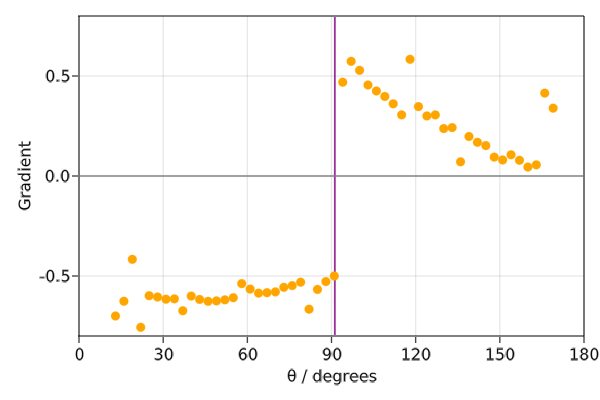
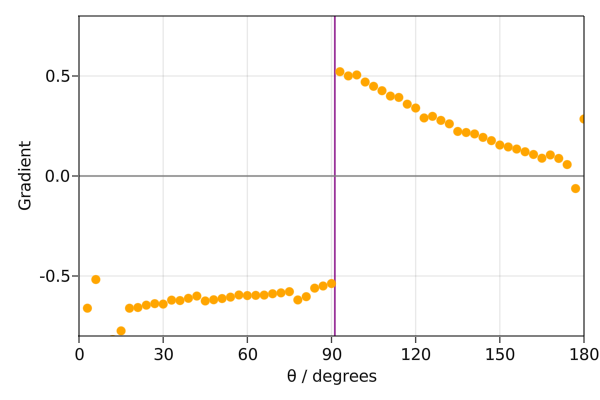
update differentiable docs examples

diff --git a/docs/src/differentiable.md b/docs/src/differentiable.md
@@ -53,13 +53,17 @@ n_atoms = 50
 n_steps = 500
 atom_mass = 10.0
 box_size = SVector(3.0, 3.0, 3.0)
-temp = 0.01
+temp = 1.0
 neighbor_finder = DistanceVecNeighborFinder(
     nb_matrix=trues(n_atoms, n_atoms),
     n_steps=10,
     dist_cutoff=1.5,
 )
-general_inters = (LennardJones(nl_only=true),)
+lj = LennardJones(nl_only=true, force_units=NoUnits, energy_units=NoUnits)
+# Currently this is required too though here it does not affect the simulation
+crf = CoulombReactionField(dist_cutoff=1.5, nl_only=true, coulomb_const=0.0,
+                           force_units=NoUnits, energy_units=NoUnits)
+general_inters = (lj, crf)
 coords = place_atoms(n_atoms, box_size, 0.7)
 velocities = [velocity(atom_mass, temp) for i in 1:n_atoms]
 simulator = VelocityVerlet(
@@ -105,7 +109,7 @@ We can use this gradient in a training loop to optimise `σ`, starting from an a
 ```julia
 function train()
     σlearn = 0.60 / scale_σ_to_dist
-    n_epochs = 20
+    n_epochs = 15
 
     for epoch_n in 1:n_epochs
         printfmt("Epoch {:>2}  |  ", epoch_n)
@@ -120,28 +124,23 @@ end
 train()
 ```
 ```
-Epoch  1  |  σ  0.535  |  Mean min sep expected  0.600  |  Mean min sep end  0.589  |  Loss  0.089  |  Grad  0.912
-Epoch  2  |  σ  0.525  |  Mean min sep expected  0.590  |  Mean min sep end  0.579  |  Loss  0.079  |  Grad  0.644
-Epoch  3  |  σ  0.519  |  Mean min sep expected  0.583  |  Mean min sep end  0.571  |  Loss  0.071  |  Grad  1.081
-Epoch  4  |  σ  0.508  |  Mean min sep expected  0.570  |  Mean min sep end  0.560  |  Loss  0.060  |  Grad  1.543
-Epoch  5  |  σ  0.493  |  Mean min sep expected  0.553  |  Mean min sep end  0.546  |  Loss  0.046  |  Grad  0.939
-Epoch  6  |  σ  0.483  |  Mean min sep expected  0.543  |  Mean min sep end  0.533  |  Loss  0.033  |  Grad  1.350
-Epoch  7  |  σ  0.470  |  Mean min sep expected  0.527  |  Mean min sep end  0.519  |  Loss  0.019  |  Grad  0.818
-Epoch  8  |  σ  0.462  |  Mean min sep expected  0.518  |  Mean min sep end  0.510  |  Loss  0.010  |  Grad  1.744
-Epoch  9  |  σ  0.444  |  Mean min sep expected  0.499  |  Mean min sep end  0.492  |  Loss  0.008  |  Grad -0.967
-Epoch 10  |  σ  0.454  |  Mean min sep expected  0.509  |  Mean min sep end  0.502  |  Loss  0.002  |  Grad  0.756
-Epoch 11  |  σ  0.446  |  Mean min sep expected  0.501  |  Mean min sep end  0.494  |  Loss  0.006  |  Grad -1.228
-Epoch 12  |  σ  0.459  |  Mean min sep expected  0.515  |  Mean min sep end  0.506  |  Loss  0.006  |  Grad  1.299
-Epoch 13  |  σ  0.446  |  Mean min sep expected  0.500  |  Mean min sep end  0.493  |  Loss  0.007  |  Grad -0.884
-Epoch 14  |  σ  0.454  |  Mean min sep expected  0.510  |  Mean min sep end  0.502  |  Loss  0.002  |  Grad  1.014
-Epoch 15  |  σ  0.444  |  Mean min sep expected  0.499  |  Mean min sep end  0.492  |  Loss  0.008  |  Grad -1.010
-Epoch 16  |  σ  0.454  |  Mean min sep expected  0.510  |  Mean min sep end  0.502  |  Loss  0.002  |  Grad  0.986
-Epoch 17  |  σ  0.445  |  Mean min sep expected  0.499  |  Mean min sep end  0.492  |  Loss  0.008  |  Grad -1.138
-Epoch 18  |  σ  0.456  |  Mean min sep expected  0.512  |  Mean min sep end  0.504  |  Loss  0.004  |  Grad  0.709
-Epoch 19  |  σ  0.449  |  Mean min sep expected  0.504  |  Mean min sep end  0.496  |  Loss  0.004  |  Grad -0.803
-Epoch 20  |  σ  0.457  |  Mean min sep expected  0.513  |  Mean min sep end  0.505  |  Loss  0.005  |  Grad  0.327
+Epoch  1  |  σ  0.535  |  Mean min sep expected  0.600  |  Mean min sep end  0.587  |  Loss  0.087  |  Grad  0.793
+Epoch  2  |  σ  0.527  |  Mean min sep expected  0.591  |  Mean min sep end  0.581  |  Loss  0.081  |  Grad  1.202
+Epoch  3  |  σ  0.515  |  Mean min sep expected  0.578  |  Mean min sep end  0.568  |  Loss  0.068  |  Grad  1.558
+Epoch  4  |  σ  0.499  |  Mean min sep expected  0.560  |  Mean min sep end  0.551  |  Loss  0.051  |  Grad  0.766
+Epoch  5  |  σ  0.491  |  Mean min sep expected  0.552  |  Mean min sep end  0.543  |  Loss  0.043  |  Grad  1.068
+Epoch  6  |  σ  0.481  |  Mean min sep expected  0.540  |  Mean min sep end  0.531  |  Loss  0.031  |  Grad  0.757
+Epoch  7  |  σ  0.473  |  Mean min sep expected  0.531  |  Mean min sep end  0.526  |  Loss  0.026  |  Grad  0.781
+Epoch  8  |  σ  0.465  |  Mean min sep expected  0.522  |  Mean min sep end  0.518  |  Loss  0.018  |  Grad  1.549
+Epoch  9  |  σ  0.450  |  Mean min sep expected  0.505  |  Mean min sep end  0.504  |  Loss  0.004  |  Grad  0.030
+Epoch 10  |  σ  0.450  |  Mean min sep expected  0.505  |  Mean min sep end  0.504  |  Loss  0.004  |  Grad  0.066
+Epoch 11  |  σ  0.449  |  Mean min sep expected  0.504  |  Mean min sep end  0.503  |  Loss  0.003  |  Grad  0.313
+Epoch 12  |  σ  0.446  |  Mean min sep expected  0.500  |  Mean min sep end  0.501  |  Loss  0.001  |  Grad  0.636
+Epoch 13  |  σ  0.439  |  Mean min sep expected  0.493  |  Mean min sep end  0.497  |  Loss  0.003  |  Grad -0.181
+Epoch 14  |  σ  0.441  |  Mean min sep expected  0.495  |  Mean min sep end  0.498  |  Loss  0.002  |  Grad -0.758
+Epoch 15  |  σ  0.449  |  Mean min sep expected  0.504  |  Mean min sep end  0.503  |  Loss  0.003  |  Grad  0.281
 ```
-The final value we get is 0.457, close to the theoretical value of 0.445 if all atoms have a neighbor at the minimum pairwise energy distance.
+The final value we get is 0.449, close to the theoretical value of 0.445 if all atoms have a neighbor at the minimum pairwise energy distance.
 The RDF looks as follows, with the purple line corresponding to the desired distance to the closest neighbor.
 ![LJ RDF](images/rdf_lj.png)
 
@@ -160,7 +159,7 @@ dist_true = 1.0
 n_steps = 150
 atom_mass = 10.0
 box_size = SVector(3.0, 3.0, 3.0)
-temp = 0.001
+temp = 0.05
 coords = [
     SVector(0.8, 0.75, 1.5), SVector(1.5, 0.70, 1.5), SVector(2.3, 0.75, 1.5),
     SVector(0.8, 2.25, 1.5), SVector(1.5, 2.20, 1.5), SVector(2.3, 2.25, 1.5),
@@ -233,28 +232,28 @@ end
 train()
 ```
 ```
-Epoch  1  |  θ 110.0°  |  Final dist 1.16  |  Loss 0.156  |  Grad  0.390
-Epoch  2  |  θ 107.8°  |  Final dist 1.14  |  Loss 0.140  |  Grad  0.410
-Epoch  3  |  θ 105.4°  |  Final dist 1.12  |  Loss 0.122  |  Grad  0.430
-Epoch  4  |  θ 103.0°  |  Final dist 1.10  |  Loss 0.102  |  Grad  0.460
-Epoch  5  |  θ 100.4°  |  Final dist 1.08  |  Loss 0.080  |  Grad  0.510
-Epoch  6  |  θ  97.4°  |  Final dist 1.05  |  Loss 0.047  |  Grad  0.960
-Epoch  7  |  θ  91.9°  |  Final dist 1.00  |  Loss 0.002  |  Grad -0.490
-Epoch  8  |  θ  94.8°  |  Final dist 1.02  |  Loss 0.023  |  Grad  0.460
-Epoch  9  |  θ  92.1°  |  Final dist 1.00  |  Loss 0.000  |  Grad -0.490
-Epoch 10  |  θ  94.9°  |  Final dist 1.02  |  Loss 0.024  |  Grad  0.460
-Epoch 11  |  θ  92.3°  |  Final dist 1.00  |  Loss 0.001  |  Grad  0.490
-Epoch 12  |  θ  89.5°  |  Final dist 0.98  |  Loss 0.024  |  Grad -0.510
-Epoch 13  |  θ  92.5°  |  Final dist 1.00  |  Loss 0.003  |  Grad  0.490
-Epoch 14  |  θ  89.7°  |  Final dist 0.98  |  Loss 0.023  |  Grad -0.510
-Epoch 15  |  θ  92.6°  |  Final dist 1.00  |  Loss 0.004  |  Grad  0.480
-Epoch 16  |  θ  89.8°  |  Final dist 0.98  |  Loss 0.021  |  Grad -0.510
-Epoch 17  |  θ  92.7°  |  Final dist 1.01  |  Loss 0.005  |  Grad  0.480
-Epoch 18  |  θ  90.0°  |  Final dist 0.98  |  Loss 0.020  |  Grad -0.510
-Epoch 19  |  θ  92.9°  |  Final dist 1.01  |  Loss 0.007  |  Grad  0.480
-Epoch 20  |  θ  90.1°  |  Final dist 0.98  |  Loss 0.018  |  Grad -0.510
+Epoch  1  |  θ 110.0°  |  Final dist 1.16  |  Loss 0.155  |  Grad  0.410
+Epoch  2  |  θ 107.7°  |  Final dist 1.14  |  Loss 0.138  |  Grad  0.430
+Epoch  3  |  θ 105.2°  |  Final dist 1.12  |  Loss 0.119  |  Grad  0.450
+Epoch  4  |  θ 102.6°  |  Final dist 1.10  |  Loss 0.099  |  Grad  0.470
+Epoch  5  |  θ 100.0°  |  Final dist 1.08  |  Loss 0.077  |  Grad  0.490
+Epoch  6  |  θ  97.2°  |  Final dist 1.05  |  Loss 0.049  |  Grad  0.710
+Epoch  7  |  θ  93.1°  |  Final dist 1.01  |  Loss 0.012  |  Grad  0.520
+Epoch  8  |  θ  90.1°  |  Final dist 0.98  |  Loss 0.015  |  Grad -0.540
+Epoch  9  |  θ  93.2°  |  Final dist 1.01  |  Loss 0.013  |  Grad  0.520
+Epoch 10  |  θ  90.2°  |  Final dist 0.99  |  Loss 0.015  |  Grad -0.540
+Epoch 11  |  θ  93.3°  |  Final dist 1.01  |  Loss 0.014  |  Grad  0.520
+Epoch 12  |  θ  90.3°  |  Final dist 0.99  |  Loss 0.014  |  Grad -0.540
+Epoch 13  |  θ  93.4°  |  Final dist 1.01  |  Loss 0.015  |  Grad  0.520
+Epoch 14  |  θ  90.4°  |  Final dist 0.99  |  Loss 0.013  |  Grad -0.540
+Epoch 15  |  θ  93.5°  |  Final dist 1.02  |  Loss 0.016  |  Grad  0.520
+Epoch 16  |  θ  90.5°  |  Final dist 0.99  |  Loss 0.012  |  Grad -0.540
+Epoch 17  |  θ  93.6°  |  Final dist 1.02  |  Loss 0.016  |  Grad  0.520
+Epoch 18  |  θ  90.6°  |  Final dist 0.99  |  Loss 0.011  |  Grad -0.530
+Epoch 19  |  θ  93.7°  |  Final dist 1.02  |  Loss 0.017  |  Grad  0.520
+Epoch 20  |  θ  90.7°  |  Final dist 0.99  |  Loss 0.010  |  Grad -0.530
 ```
-The final value we get is 90.1°, close to the theoretical value of 91.2° which is obtainable from trigonometry.
+The final value we get is 90.7°, close to the theoretical value of 91.2° which is obtainable from trigonometry.
 The final simulation looks like this:
 ![Angle simulation](images/sim_angle.gif)
 In the presence of other forces this value would not be so trivially obtainable.
@@ -291,7 +290,8 @@ ps = params(model)
 
 struct NNBond <: SpecificInteraction end
 
-function Molly.force(b::NNBond, vec_ij, coords_i, coords_j, box_size)
+function Molly.force(b::NNBond, coords_i, coords_j, box_size)
+    vec_ij = vector(coords_i, coords_j, box_size)
     dist = norm(vec_ij)
     f = model([dist])[1] * normalize(vec_ij)
     return SpecificForce2Atoms(f, -f)
@@ -300,7 +300,7 @@ end
 n_steps = 400
 mass = 10.0f0
 box_size = SVector(5.0f0, 5.0f0, 5.0f0)
-temp = 0.001f0
+temp = 0.01f0
 coords = [SVector(2.3f0, 2.07f0, 0.0f0), SVector(2.5f0, 2.93f0, 0.0f0), SVector(2.7f0, 2.07f0, 0.0f0)]
 n_atoms = length(coords)
 velocities = zero(coords)
@@ -356,26 +356,26 @@ end
 train()
 ```
 ```
-Epoch  1  |  Dist end  0.611  |  Loss  0.389
-Epoch  2  |  Dist end  0.842  |  Loss  0.158
-Epoch  3  |  Dist end  0.870  |  Loss  0.130
-Epoch  4  |  Dist end  0.905  |  Loss  0.095
-Epoch  5  |  Dist end  0.946  |  Loss  0.054
-Epoch  6  |  Dist end  0.992  |  Loss  0.008
-Epoch  7  |  Dist end  1.041  |  Loss  0.041
-Epoch  8  |  Dist end  1.066  |  Loss  0.066
-Epoch  9  |  Dist end  1.074  |  Loss  0.074
-Epoch 10  |  Dist end  1.071  |  Loss  0.071
-Epoch 11  |  Dist end  1.060  |  Loss  0.060
-Epoch 12  |  Dist end  1.042  |  Loss  0.042
-Epoch 13  |  Dist end  1.020  |  Loss  0.020
-Epoch 14  |  Dist end  0.994  |  Loss  0.006
-Epoch 15  |  Dist end  0.979  |  Loss  0.021
-Epoch 16  |  Dist end  0.972  |  Loss  0.028
-Epoch 17  |  Dist end  0.971  |  Loss  0.029
-Epoch 18  |  Dist end  0.976  |  Loss  0.024
-Epoch 19  |  Dist end  0.985  |  Loss  0.015
-Epoch 20  |  Dist end  0.999  |  Loss  0.001
+Epoch  1  |  Dist end  0.757  |  Loss  0.243
+Epoch  2  |  Dist end  0.773  |  Loss  0.227
+Epoch  3  |  Dist end  0.794  |  Loss  0.206
+Epoch  4  |  Dist end  0.817  |  Loss  0.183
+Epoch  5  |  Dist end  0.843  |  Loss  0.157
+Epoch  6  |  Dist end  0.870  |  Loss  0.130
+Epoch  7  |  Dist end  0.898  |  Loss  0.102
+Epoch  8  |  Dist end  0.927  |  Loss  0.073
+Epoch  9  |  Dist end  0.957  |  Loss  0.043
+Epoch 10  |  Dist end  0.988  |  Loss  0.012
+Epoch 11  |  Dist end  1.018  |  Loss  0.018
+Epoch 12  |  Dist end  1.038  |  Loss  0.038
+Epoch 13  |  Dist end  1.050  |  Loss  0.050
+Epoch 14  |  Dist end  1.055  |  Loss  0.055
+Epoch 15  |  Dist end  1.054  |  Loss  0.054
+Epoch 16  |  Dist end  1.049  |  Loss  0.049
+Epoch 17  |  Dist end  1.041  |  Loss  0.041
+Epoch 18  |  Dist end  1.030  |  Loss  0.030
+Epoch 19  |  Dist end  1.017  |  Loss  0.017
+Epoch 20  |  Dist end  1.003  |  Loss  0.003
 ```
 After training it looks much better:
 ![Logo after](images/logo_after.gif)
